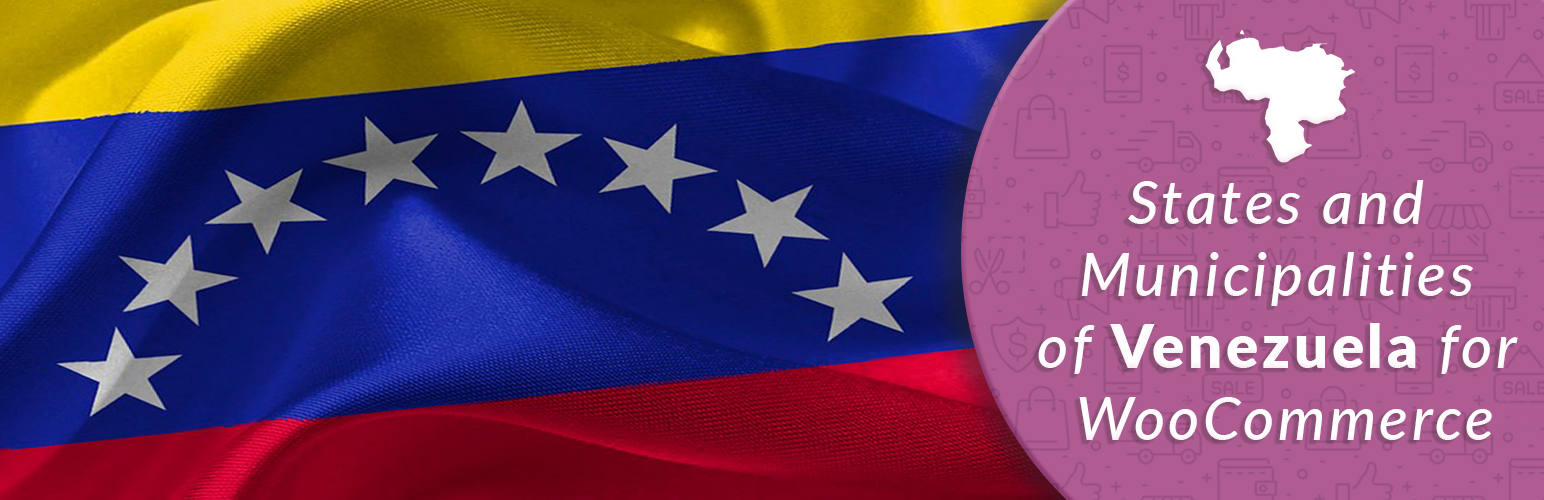
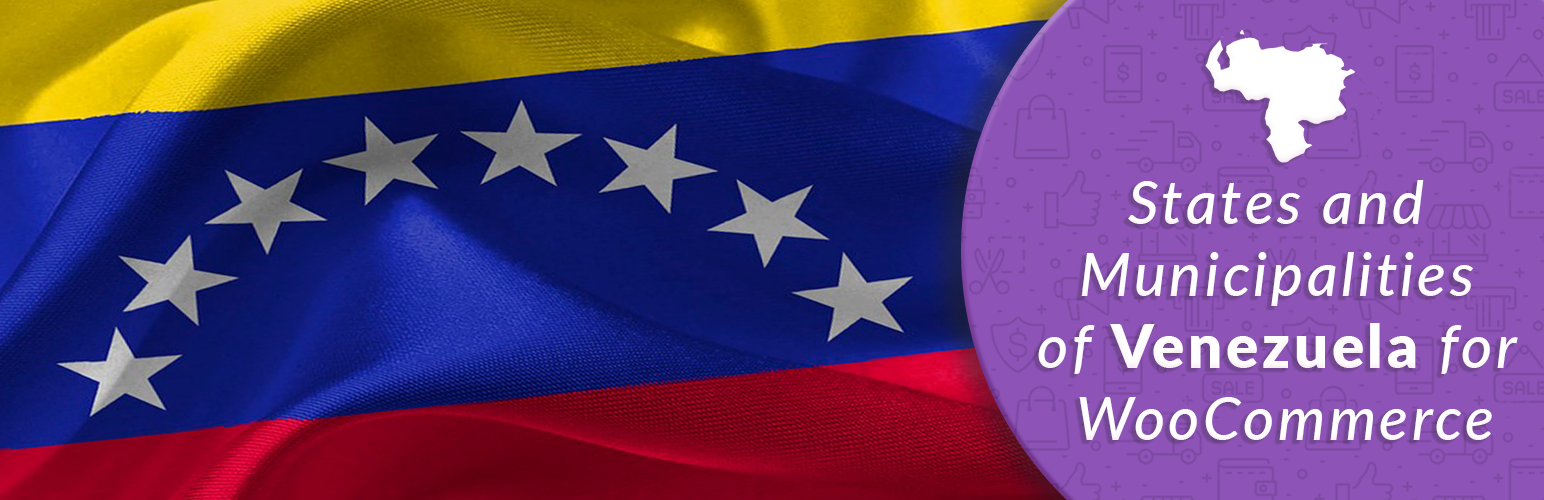
Updated new WooCommerce brand color of assets and Tested up WP 5.5 and WC 4.5

diff --git a/tags/1.1/states-and-municipalities-of-venezuela-for-woocommerce.php b/tags/1.1/states-and-municipalities-of-venezuela-for-woocommerce.php
@@ -11,9 +11,9 @@
  * Text Domain: states-and-municipalities-of-venezuela-for-woocommerce
  * Domain Path: /languages
  * Requires at least: 4.0 +
- * Tested up to: 5.4.1
+ * Tested up to: 5.5
  * WC requires at least: 3.0.x
- * WC tested up to: 4.0.1
+ * WC tested up to: 4.5
 */
 
 // Exit if file is open directly

diff --git a/trunk/states-and-municipalities-of-venezuela-for-woocommerce.php b/trunk/states-and-municipalities-of-venezuela-for-woocommerce.php
@@ -11,9 +11,9 @@
  * Text Domain: states-and-municipalities-of-venezuela-for-woocommerce
  * Domain Path: /languages
  * Requires at least: 4.0 +
- * Tested up to: 5.4.1
+ * Tested up to: 5.5
  * WC requires at least: 3.0.x
- * WC tested up to: 4.0.1
+ * WC tested up to: 4.5
 */
 
 // Exit if file is open directly
